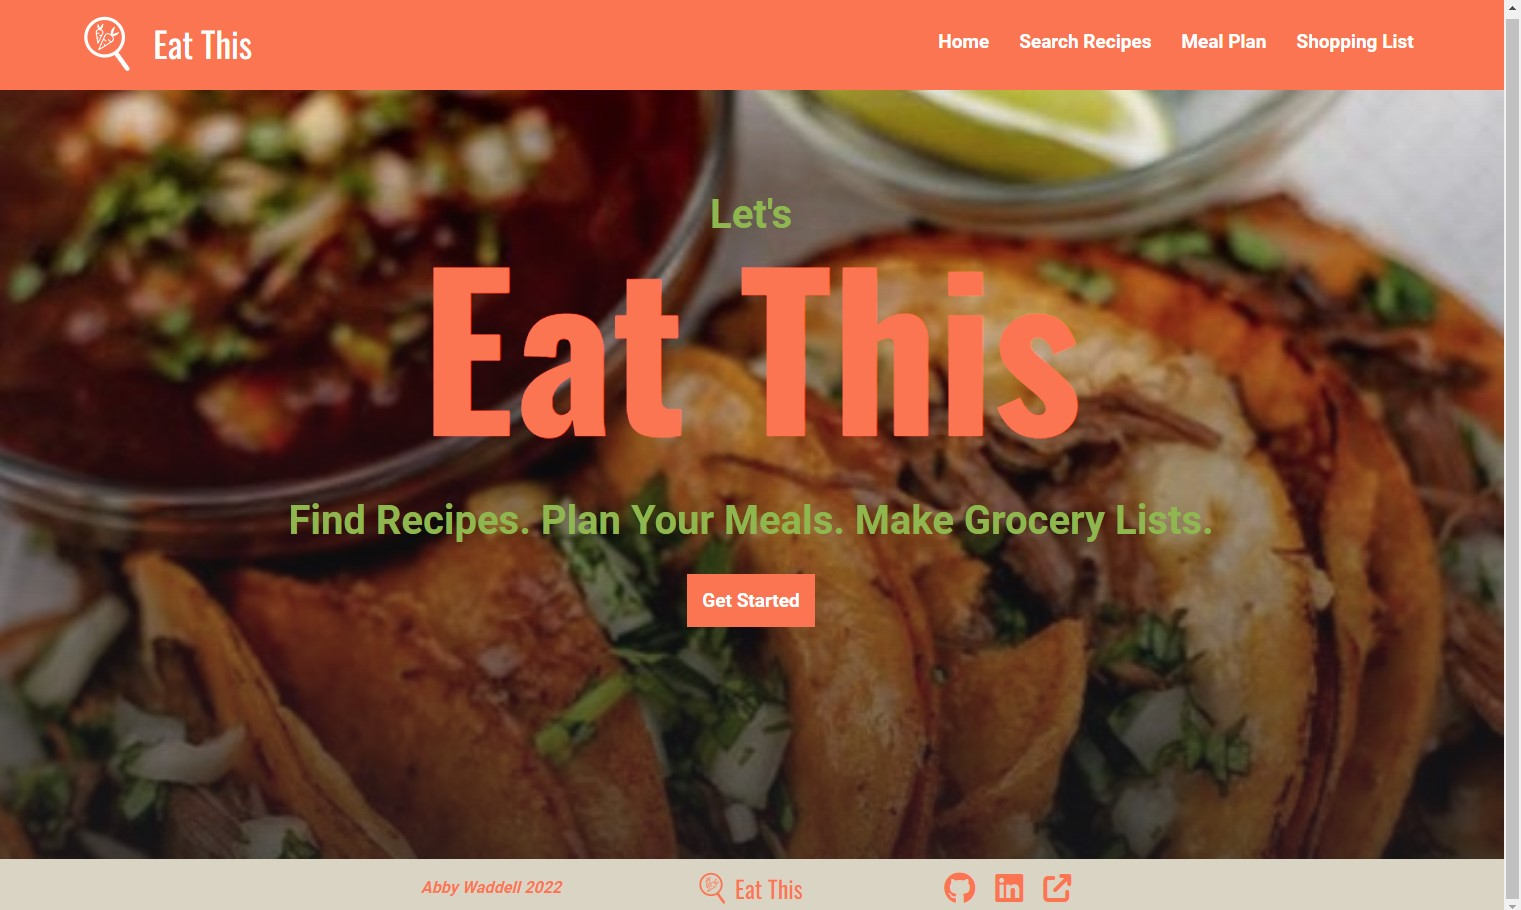
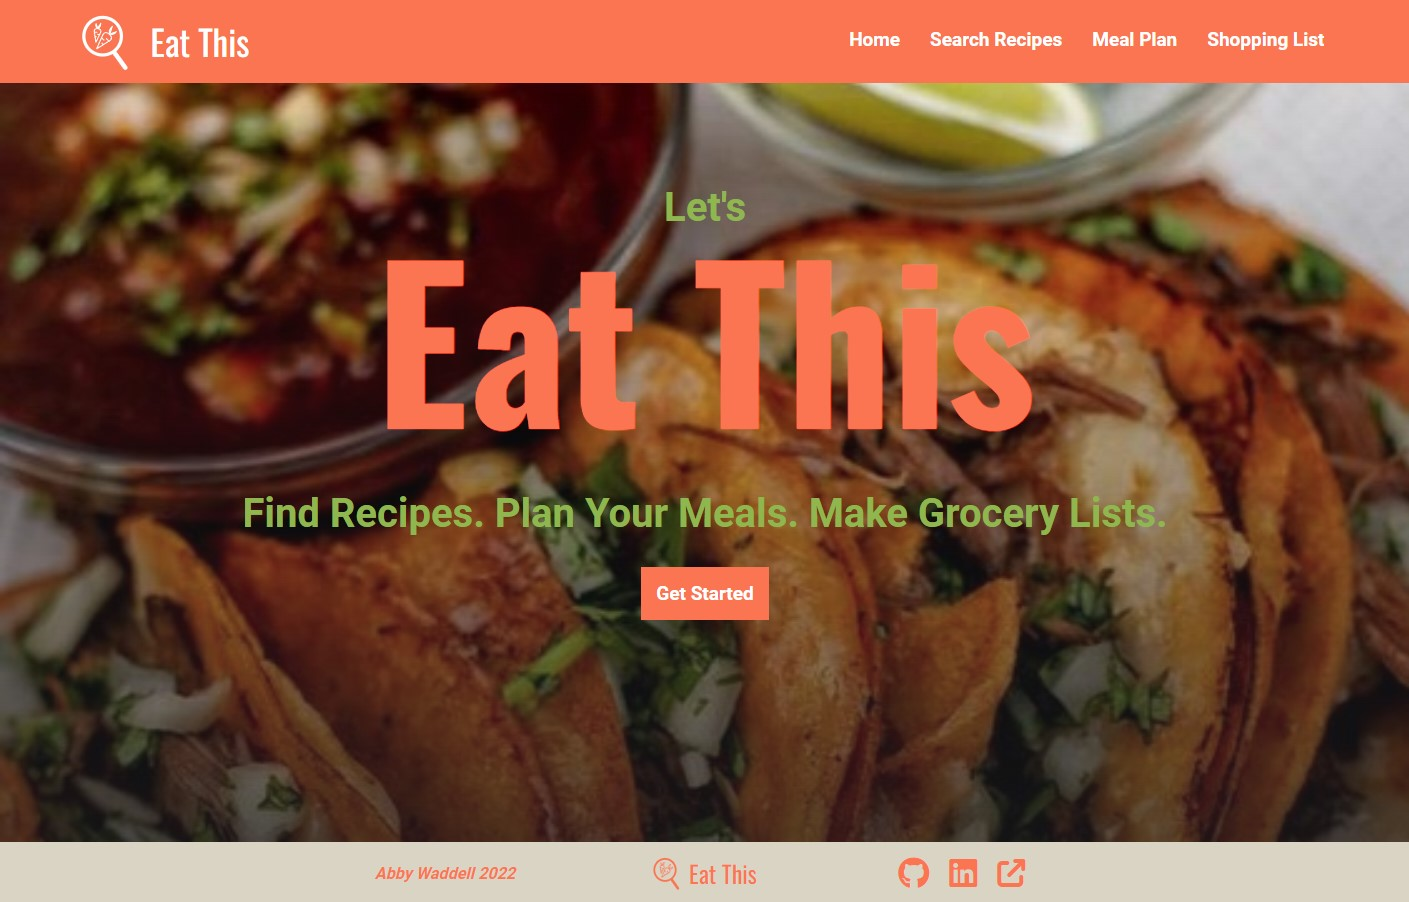
ReadMe Image

diff --git a/src/styles/Navbar.scss b/src/styles/Navbar.scss
@@ -11,7 +11,7 @@ nav{
 .nav__wrapper{
     @include flex(space-between, row);
     width: 90%;
-    margin: .9rem 0;
+    margin: .6rem 0;
 }
 
 // Nav Logo & Text Styling

diff --git a/src/styles/Footer.scss b/src/styles/Footer.scss
@@ -2,7 +2,7 @@
 @import 'Main';
 
 .footer{
-    padding: 10px 0;
+    padding: 12px 0;
     background-color: rgb(219, 212, 195);
 
     p{

diff --git a/README.md b/README.md
@@ -15,7 +15,8 @@ Features include: <br/>
 <a href="Website name once i get one">Eat This</a>
 
 Eat this as a tool used to find recipes, plan your weekly meals, and to make grocery lists based on those recipes.<br/>
-<img src="src/images/readme home1.jpg" alt="Eat This Homepage" width="700"/><br/>
+<br/>
+<img src="src/images/readme home1.jpg" alt="Eat This Homepage" width="800"/><br/>
 The Search page floods with recipes on recipe cards, and a search box taking input to search for recpies.<br/>
 <img/><br/>
 Recipe cards show you all about the recipe, each has an overlay that goes into more detail, including the option to adding the recipe to your meal plan or shopping list</br>
